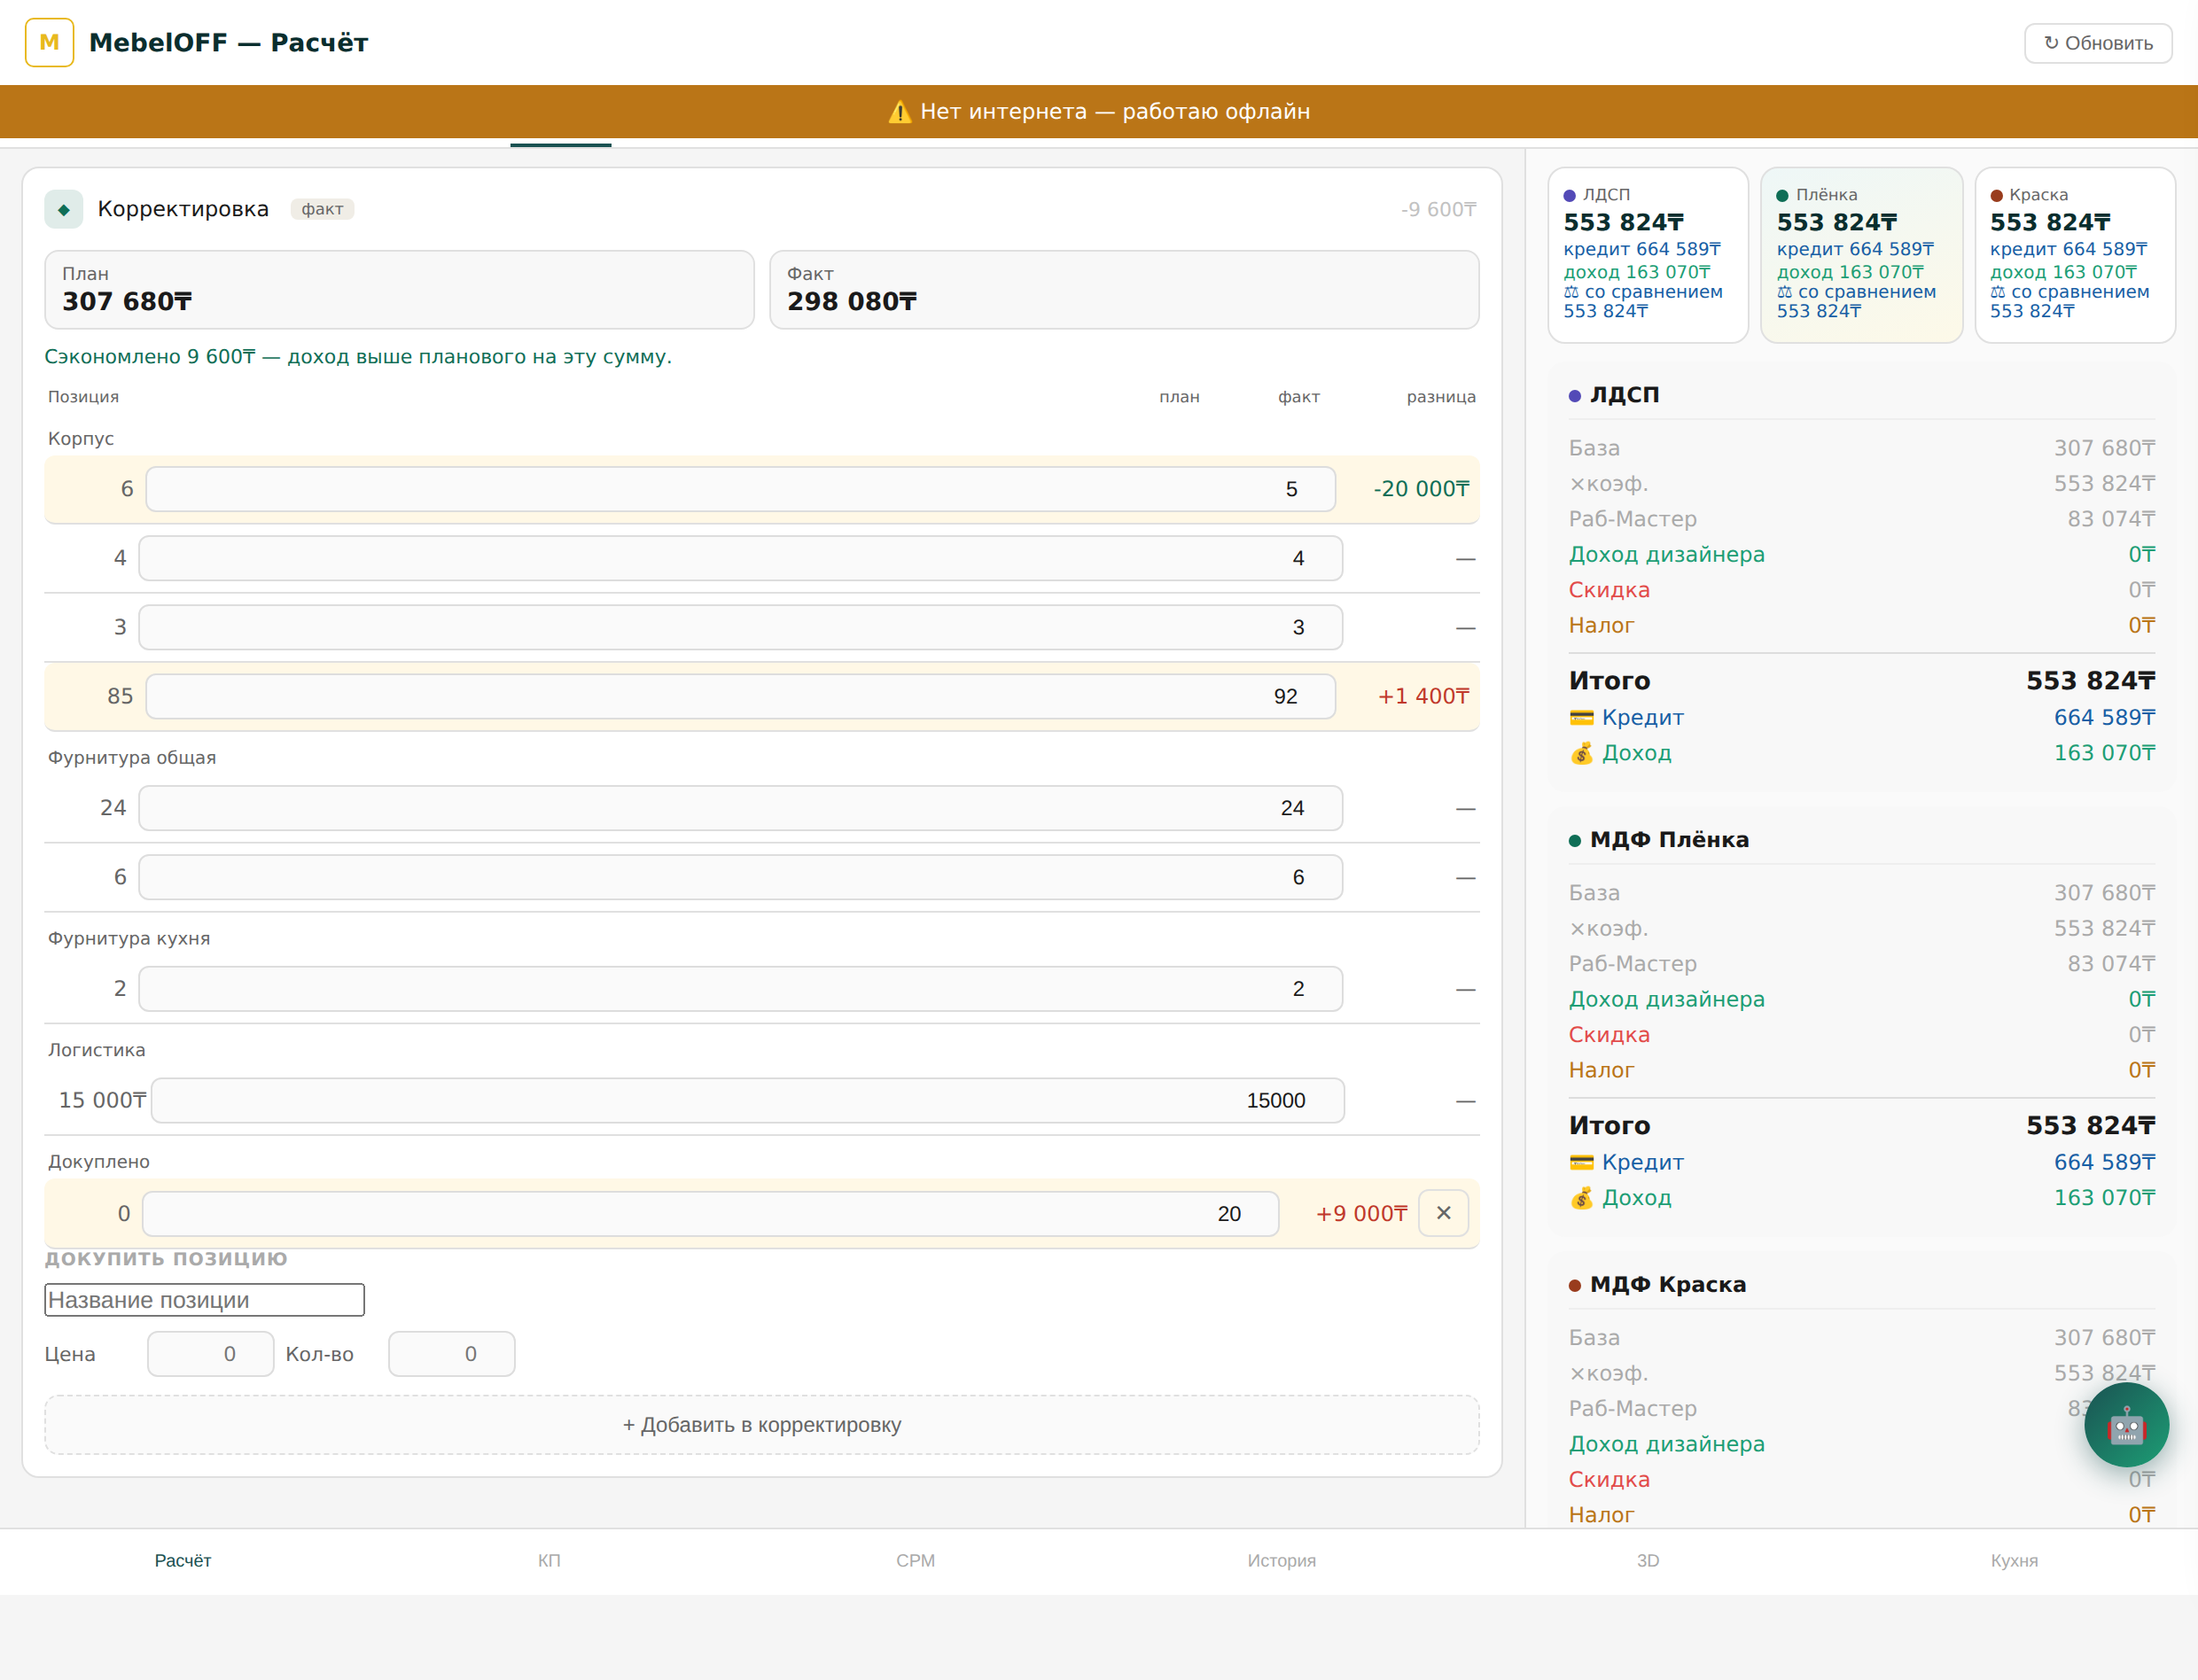
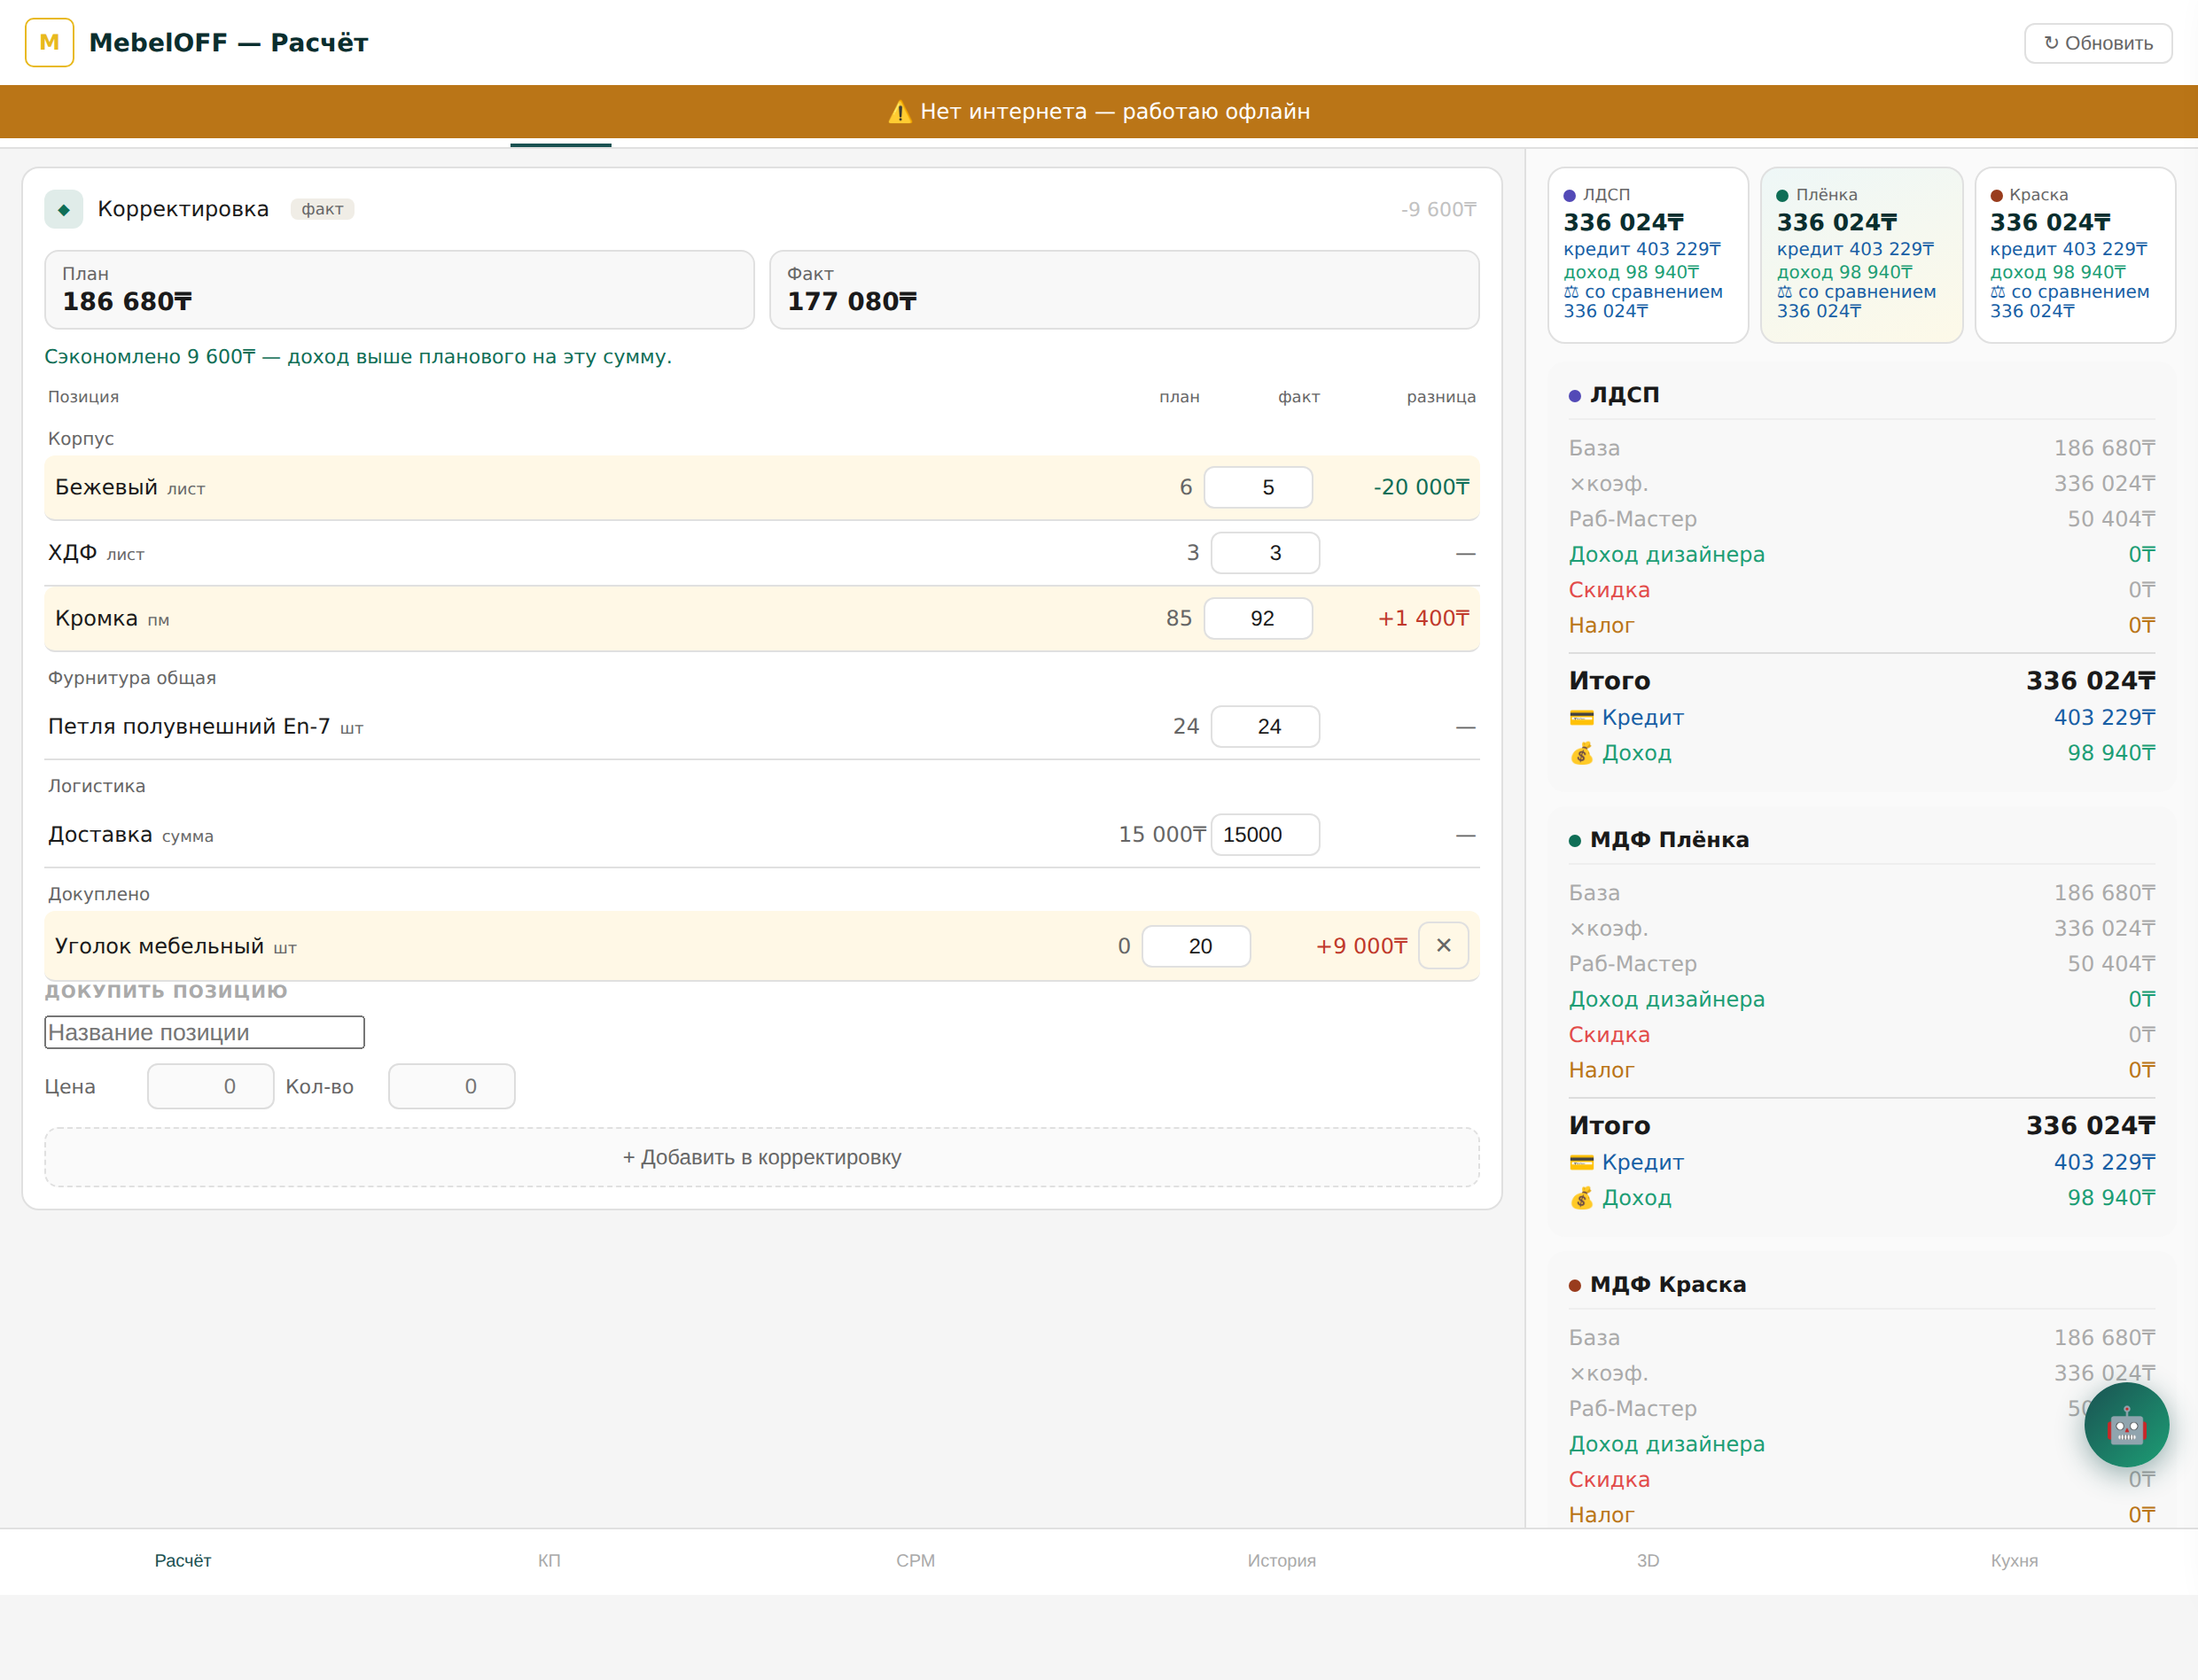
Add files via upload

diff --git a/test-autoslots.js b/test-autoslots.js
@@ -1437,6 +1437,52 @@ function waitReady(dom, tries){
   const kT5 = JSON.parse(domF.window.eval('JSON.stringify(korrTotals())'));
   ok(kT5.delta === -18500 * 2 + 9000, 'правка прямо в поле пересчитала отклонение (с учётом докупленного уголка)');
 
+  // ─────────────────────────────────────────────────────────────
+  // v4.12: себестоимость план/факт в заказе (корректировка → финансы).
+  // Ключевое: пустая себестоимость = "неизвестна", а НЕ ноль.
+  // ─────────────────────────────────────────────────────────────
+  console.log('── v4.12: себестоимость план/факт в заказе ──');
+  var oc0 = att("ordersList_(__ordSS)");
+  var o77c0 = null; oc0.orders.forEach(function(x){ if (x.num === '77') o77c0 = x; });
+  ok(o77c0 && o77c0.costPlan === null && o77c0.costFact === null, 'заказ без корректировки: себестоимость неизвестна (null, не ноль)');
+  ok(o77c0 && o77c0.costDelta === null, 'отклонение неизвестно, пока нет обеих половин');
+
+  att("updateOrder_(__ordSS, { num:'77', costPlan:336480, costFact:317240 })");
+  var oc1 = att("ordersList_(__ordSS)");
+  var o77c1 = null; oc1.orders.forEach(function(x){ if (x.num === '77') o77c1 = x; });
+  ok(o77c1.costPlan === 336480 && o77c1.costFact === 317240, 'план и факт себестоимости записались в заказ');
+  ok(o77c1.costDelta === -19240, 'сервер отдаёт отклонение минус 19 240₸ (сэкономили)');
+
+  att("updateOrder_(__ordSS, { num:'77', costFact:350000 })");
+  var oc2 = att("ordersList_(__ordSS)");
+  var o77c2 = null; oc2.orders.forEach(function(x){ if (x.num === '77') o77c2 = x; });
+  ok(o77c2.costDelta === 350000 - 336480, 'перерасход считается тем же правилом (плюс 13 520₸)');
+
+  var ocNeg = att("updateOrder_(__ordSS, { num:'77', costFact:-5 })");
+  var oc3 = att("ordersList_(__ordSS)");
+  var o77c3 = null; oc3.orders.forEach(function(x){ if (x.num === '77') o77c3 = x; });
+  ok(ocNeg.ok === true && o77c3.costFact === 350000, 'отрицательная себестоимость отклонена, прежнее значение цело');
+
+  att("updateOrder_(__ordSS, { num:'77', costFact:'' })");
+  var oc4 = att("ordersList_(__ordSS)");
+  var o77c4 = null; oc4.orders.forEach(function(x){ if (x.num === '77') o77c4 = x; });
+  ok(o77c4.costFact === null && o77c4.costPlan === 336480, 'пустое значение снимает факт (снова «неизвестно»), план не тронут');
+  ok(o77c4.costDelta === null, 'без факта отклонение опять неизвестно, а не равно минус плану');
+
+  att("updateOrder_(__ordSS, { num:'77', costPlan:200000, costFact:0 })");
+  var oc5 = att("ordersList_(__ordSS)");
+  var o77c5 = null; oc5.orders.forEach(function(x){ if (x.num === '77') o77c5 = x; });
+  ok(o77c5.costFact === 0 && o77c5.costDelta === -200000, 'явный ноль — это ноль, а не «неизвестно»');
+
+  // Клиентская сторона: payload из корректировки.
+  const kp = JSON.parse(domF.window.eval('JSON.stringify(korrPayload())'));
+  const kpT = JSON.parse(domF.window.eval('JSON.stringify(korrTotals())'));
+  ok(kp && kp.costPlan === Math.round(kpT.plan) && kp.costFact === Math.round(kpT.fact), 'korrPayload отдаёт план и факт себестоимости для карточки');
+  ok(kp.delta === kp.costFact - kp.costPlan, 'отклонение в payload сходится с разницей план/факт');
+  const domEmpty = bootPage(null);
+  await waitReady(domEmpty);
+  ok(domEmpty.window.eval('korrPayload()') === null, 'пустой расчёт не шлёт нулевую себестоимость — шлёт null');
+
   console.log('');
   console.log('ИТОГ: ' + PASS + ' прошло, ' + FAIL + ' упало');
   process.exit(FAIL ? 1 : 0);

diff --git a/styles.css b/styles.css
@@ -832,10 +832,10 @@ select{width:100%;font-size:12px;padding:5px 6px;border:1px solid #ddd;border-ra
 .krg{font-size:10px;color:var(--t2);padding:9px 2px 4px;font-weight:500}
 .krr{display:flex;align-items:center;gap:6px;padding:6px 2px;border-bottom:1px solid var(--bd)}
 .krr.ch{background:#FFF8E6;border-radius:6px;padding-left:6px;padding-right:6px}
-.krn{flex:1;min-width:0;font-size:12px;color:var(--tx);overflow:hidden;text-overflow:ellipsis;white-space:nowrap}
+.krn{flex:1 1 auto;min-width:0;font-size:12px;color:var(--tx);overflow:hidden;text-overflow:ellipsis;white-space:nowrap}
 .kru{font-size:9px;color:var(--t2);margin-left:5px}
-.krp{width:46px;text-align:right;font-size:12px;color:var(--t2)}
-.kri{width:62px;padding:4px 6px;border:1px solid var(--bd);border-radius:6px;font-size:12px;text-align:right;background:#fff;color:var(--tx)}
-.krd{width:82px;text-align:right;font-size:12px;color:var(--t2)}
+.krp{width:46px;min-width:46px;flex-shrink:0;text-align:right;font-size:12px;color:var(--t2)}
+input.kri{width:62px;min-width:62px;max-width:62px;flex-shrink:0;padding:4px 6px;border:1px solid var(--bd);border-radius:6px;font-size:12px;text-align:right;background:#fff;color:var(--tx)}
+.krd{width:82px;min-width:82px;flex-shrink:0;text-align:right;font-size:12px;color:var(--t2)}
 .krup{color:#C0392B}
 .krdn{color:#0F6E56}

diff --git a/main.js b/main.js
@@ -1007,6 +1007,17 @@ function korrAddFromForm(){
   n.value="";u.value="";q.value="";
   renderKorr();
 }
+// Payload корректировки для карточки заказа (crm.js сохраняет его через
+// updateOrder_). Отдаём план и факт себестоимости, а не одно отклонение:
+// по двум числам отчёт восстановит и разницу, и базу, а по одной разнице
+// исходную себестоимость уже не собрать.
+// Если расчёт пуст — возвращаем null: "нечего сохранять" это не то же
+// самое, что "себестоимость ноль".
+function korrPayload(){
+  var t=korrTotals();
+  if(!t.rows)return null;
+  return {costPlan:Math.round(t.plan),costFact:Math.round(t.fact),delta:Math.round(t.delta)};
+}
 function blk(fas,k,rm,sk,tax,cr,vK,shared,extras,eInc){
   const base=vK+fas+shared,aK=base*k,rabM=aK*rm,preTax=aK+extras,taxA=preTax*tax,afterTax=preTax+taxA,tot=afterTax+sk,credit=tot*(1+cr);
   return{base,aK,rabM,sk,taxA,tot,credit,inc:aK-base-rabM+sk+eInc};
